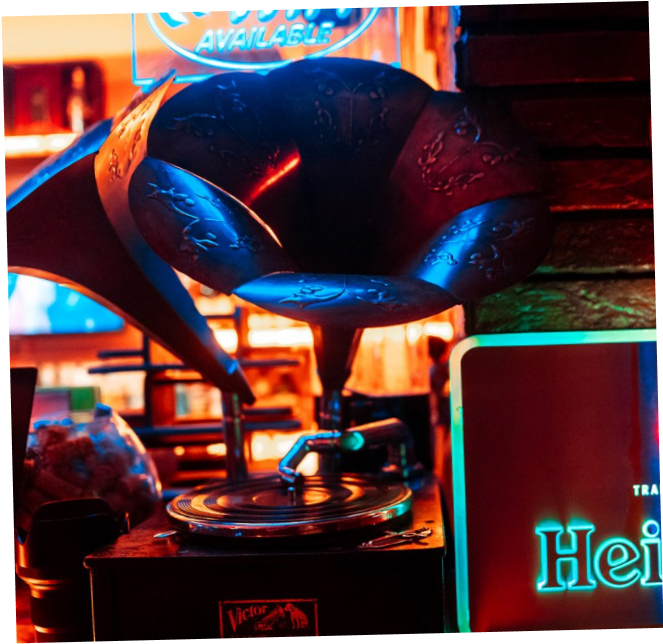
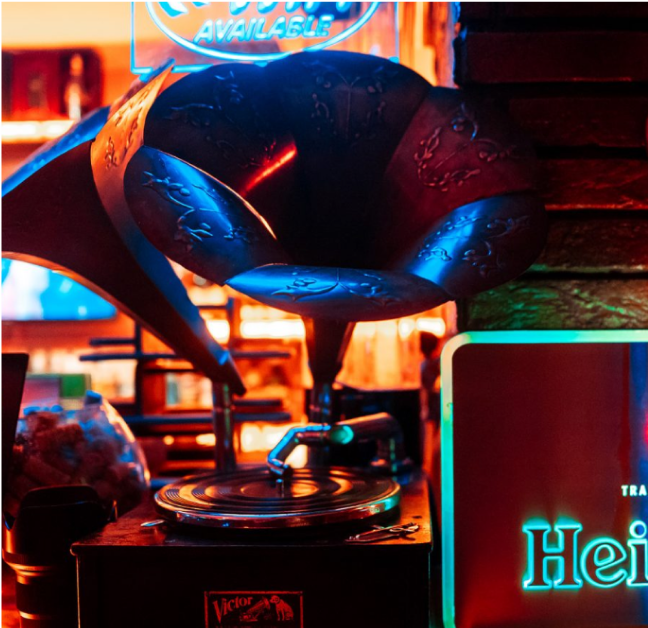
add photos not turn

diff --git a/src/pages/InstitutionBarPage/components/Paper.jsx b/src/pages/InstitutionBarPage/components/Paper.jsx
@@ -9,6 +9,10 @@ import top3 from "../../../assets/institutionBarImg/photo/top3.png";
 import bottom1 from "../../../assets/institutionBarImg/photo/bottom1.png";
 import bottom2 from "../../../assets/institutionBarImg/photo/bottom2.png";
 import bottom3 from "../../../assets/institutionBarImg/photo/bottom3.png";
+// let frame = ["frame1", "frame2", "frame3"];
+// let arrayPhotoTop = [top1, top2, top3];
+// let cssOfPhoto = ["fr1", "fr2", "fr3"];
+// let arrayPhotoBottom = [bottom1, bottom2, bottom3];
 
 export default function Paper() {
   return (
@@ -17,25 +21,39 @@ export default function Paper() {
       <div className={barStyle.photoDiv}>
         <h1 className={barStyle.h1p}>Репортажи</h1>
         <div>
-          <p className={barStyle.hp}>Date</p>
           <img src={polaroidMini} width="260px" className={barStyle.frame1} />
-          <img src={top1} width="238px" className={barStyle.fr1} />
+          <img src={top1} width="247px" className={barStyle.fr1} />
           <img src={polaroidMini} width="260px" className={barStyle.frame2} />
-          <img src={top2} width="238px" className={barStyle.fr2} />
+          <img src={top2} width="247px" className={barStyle.fr2} />
           <img src={polaroidMini} width="260px" className={barStyle.frame3} />
-          <img src={top3} width="237px" className={barStyle.fr3} />
+          <img src={top3} width="247.5px" className={barStyle.fr3} />
         </div>
         <div className={barStyle.botttom}>
           <p className={barStyle.hp}>date</p>
           <img src={polaroidMini} width="260px" className={barStyle.frame1} />
-          <img src={bottom1} width="238px" className={barStyle.fr1} />
+          <img src={bottom1} width="247px" className={barStyle.fr1} />
           <img src={polaroidMini} width="260px" className={barStyle.frame2} />
-          <img src={bottom2} width="238px" className={barStyle.fr2} />
+          <img src={bottom2} width="248px" className={barStyle.fr2} />
           <img src={polaroidMini} width="260px" className={barStyle.frame3} />
-          <img src={bottom3} width="238px" className={barStyle.fr3} />
+          <img src={bottom3} width="247.5px" className={barStyle.fr3} />
         </div>
       </div>
-      \
     </div>
   );
 }
+
+/*
+ {arrayPhotoTop.map((el) => (
+  <>
+  <p className={barStyle.hp}>Date</p>
+  <img
+    src={polaroidMini}
+    width="260px"
+    className={barStyle.frame}
+  />
+  <img
+    src={el}
+    width="247px"
+    className={cssOfPhoto.map((css) => barcss)}
+  />
+ </>))}*/

diff --git a/src/pages/InstitutionBarPage/components/LiveBar.jsx b/src/pages/InstitutionBarPage/components/LiveBar.jsx
@@ -5,6 +5,7 @@ import livebar from "../../../assets/institutionBarImg/iconLiveBar/livebar.png";
 import polaroidMain from "../../../assets/institutionBarImg/iconLiveBar/polaroidMain.png";
 import photoMain from "../../../assets/institutionBarImg/photo/photoMain.png";
 import effectMain from "../../../assets/institutionBarImg/photo/effectMain.png";
+import polaroidMain1 from "../../../assets/institutionBarImg/iconLiveBar/polaroidMain1.png";
 
 export default function LiveBar() {
   return (
@@ -37,9 +38,9 @@ export default function LiveBar() {
         <article className={barStyle.photo}>
           <div className={barStyle.tape1} />
           <div className={barStyle.tape2} />
-          <img src={polaroidMain} width="500px" />
-          <img src={photoMain} width="450px" className={barStyle.mainPhoto} />
-          <img src={effectMain} width="450px" className={barStyle.mainPhoto} />
+          <img src={polaroidMain1} width="100%" />
+          <img src={photoMain} width="405px" className={barStyle.mainPhoto} />
+          <img src={effectMain} width="405px" className={barStyle.mainPhoto} />
         </article>
         <article className={barStyle.photosAll}>
           <div className={barStyle.photo1}>

diff --git a/src/pages/InstitutionBarPage/components/Map.jsx b/src/pages/InstitutionBarPage/components/Map.jsx
@@ -18,7 +18,7 @@ export default function Map() {
         className="dg-widget-link"
         href="http://2gis.kg/bishkek/firm/70000001019346367/center/74.61690902709962,42.85834982271733/zoom/16?utm_medium=widget-source&utm_campaign=firmsonmap&utm_source=bigMap"
       >
-        <img src={map} className={barStyle.mapImage}/>
+        <img src={map} className={barStyle.mapImage} />
       </a>
 
       <section className={barStyle.textMap}>
@@ -41,10 +41,13 @@ export default function Map() {
           Ночной клуб, караоке
         </p>
         <h1>Контакты:</h1>
-        <p>
-          <img src={instagram} />
-          livebar.kg
-        </p>
+
+        <a href="https://www.instagram.com/livebar/?igshid=126pohgaworso">
+          <p>
+            <img src={instagram} /> livebar.kg
+          </p>
+        </a>
+
         <p>
           <img src={phone} />0 558 55 00 00
         </p>

diff --git a/src/pages/InstitutionBarPage/institutionBar.module.css b/src/pages/InstitutionBarPage/institutionBar.module.css
@@ -95,6 +95,8 @@
 }
 
 .photosAll {
+  position: absolute;
+  top: 440px;
   display: flex;
   justify-content: space-evenly;
 }
@@ -215,27 +217,31 @@
 
 .fr1 {
   position: absolute;
-  top: 119px;
-  left: 107px;
-  transform: rotate(-1.38deg);
+  top: 118px;
+  left: 106.5px;
+  transform: rotate(-1.5deg);
 }
 
 .fr2 {
   position: absolute;
   top: 118px;
-  left: 458px;
-  transform: rotate(-1.3deg);
+  left: 456px;
+  transform: rotate(1.6deg);
+  mix-blend-mode: screen;
 }
 .fr3 {
   position: absolute;
   top: 119px;
-  left: 808px;
-  transform: rotate(0.1deg);
+  left: 806.5px;
+  transform: rotate(1.2deg);
+  mix-blend-mode: screen;
 }
 .mainPhoto {
   position: absolute;
-  top: 30px;
-  left: 570px;
+  border-radius: 2px;
+  top: 64px;
+  left: 625px;
+  transform: rotate(3.7deg);
 }
 
 /* first child */

diff --git a/src/pages/index.js b/src/pages/index.js
@@ -54,7 +54,7 @@ const MainRoutes = () => {
       id: 8,
     },
     {
-      link: "*",
+      link: "/*",
       element: <ErrorPage />,
       id: 9,
     },
